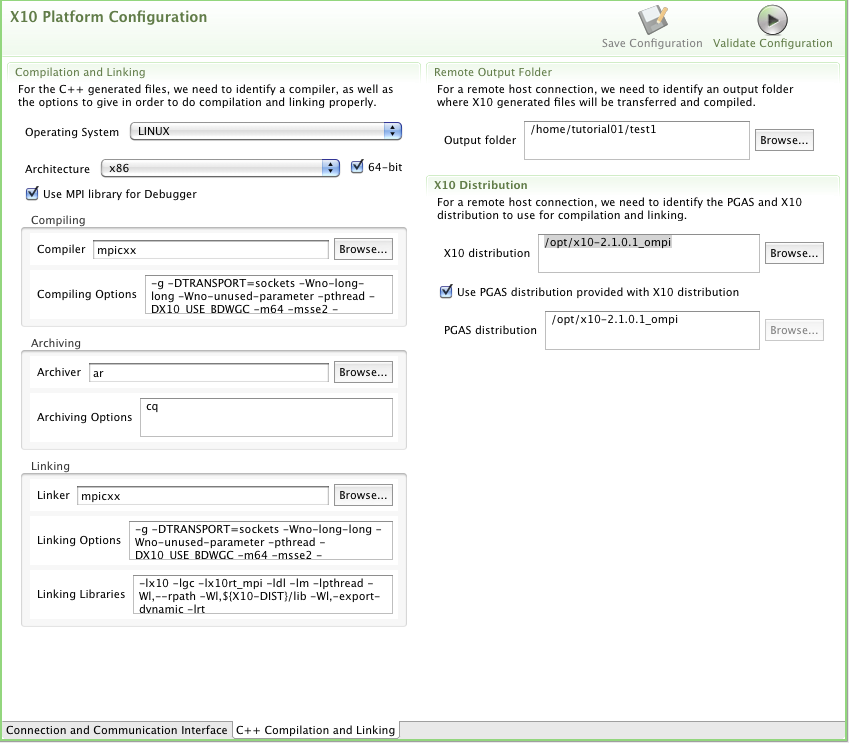
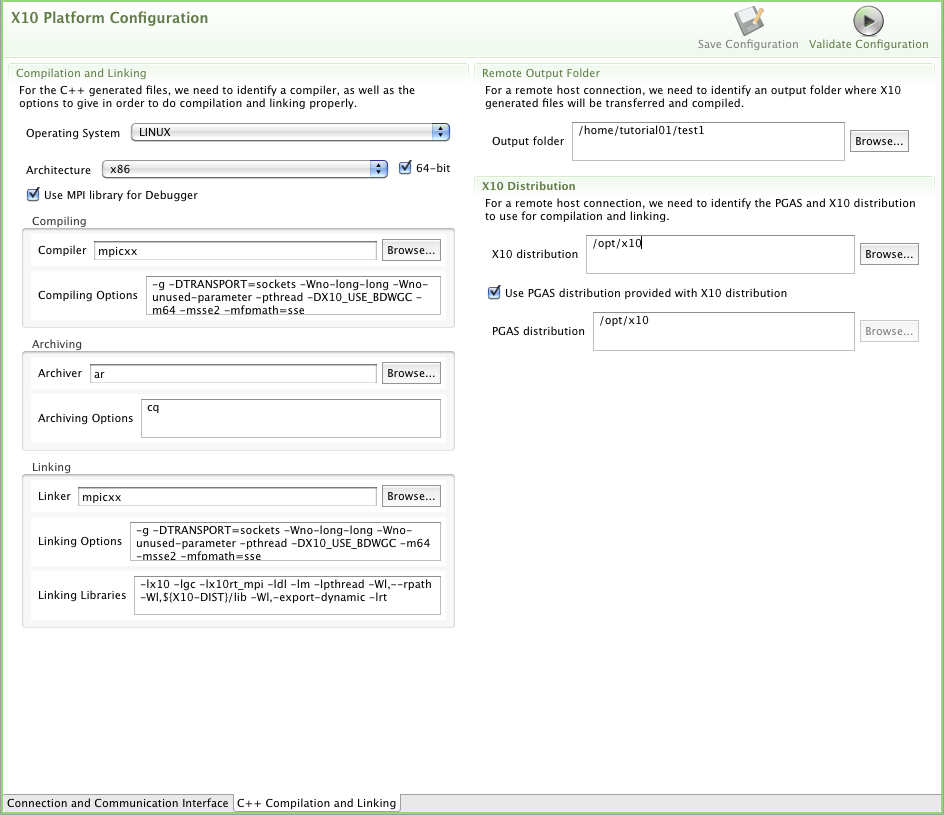
updated getting started
git-svn-id: svn://svn.code.sf.net/p/x10/code/x10dt/trunk@18274 a326200e-df2c-42e0-81fa-597e909af41d

Changed region(s): [[0.0, 0.0, 1.0, 1.0], [0.0, 0.0, 0.245, 0.031]]

diff --git a/x10dt.help.dt/html/gettingstarted/Steps1-8.html b/x10dt.help.dt/html/gettingstarted/Steps1-8.html
@@ -20,17 +20,20 @@ You will see a button (labeled <b>X10</b>) appear in the upper right corner of e
 back to the X10 perspective if you happen to move away from it.
 
 <ul>
-<li><a href="#import">Importing from a zip file</a></li>
-<li><a href="#create">Creating X10 Projects</a></li>
+<li><a href="#import">Importing X10 projects from a zip file</a></li>
+<li><a href="#create">Creating new X10 Projects</a></li>
 <li><a href="#editor">Using the Editor</a></li>
 <li><a href="#building">Building</a></li>
 <li><a href="#launching">Launching</a></li>
 <li><a href="#conversions">Conversions between C++ and Java back-ends</a></li>
 </ul>
 
+<br><br>
+<img src="images/X10DT.png" border="0" />
+<br><br>
 
 <br><hr>
-<h2 id="import"> Importing from a zip file </h2>
+<h2 id="import"> Importing X10 projects from a zip file </h2>
 
 Given a zip file that contains an existing X10 project, follow these steps to import it into X10DT.
 Go to 
@@ -41,11 +44,11 @@ select <b>"Select archive file"</b>, and enter the path for the zip file. Click 
 imported project.
 
 <br><hr>
-<h2 id="create"> Creating X10 Projects </h2>
+<h2 id="create"> Creating new X10 projects </h2>
 
 To create an X10 project with the Java backend, go to
 <br><br><b>File -> New -> X10 Project (Java back-end)</b><br><br>
-Enter the name of the project in the window that pops up. The <b>Project Layout</b> defaults to creating seperate folders for sources
+Enter the name of the project in the window that pops up. The <b>Project Layout</b> defaults to creating separate folders for sources
 and class files. Be sure to keep this default. In the <b>Sample Source</b> area, you have the choice of having the wizard create
 a sample "Hello World" program, or not. This program will help you to get started with X10. Click <b>Finish</b>.
 
@@ -61,7 +64,7 @@ To create a new X10 class, interface, or package, select a src folder and right 
 to create. In the popup window, simply type the name of the new entity and click <b>Finish</b>.
 
 <br><hr>
-<h2 id="editor"> Using the Editor </h2>
+<h2 id="editor"> Using the editor </h2>
 
 If you double click on an X10 file in the Package Explorer, it will open an editor for that file. The editor offers the following services:
 <ul>
@@ -70,7 +73,11 @@ If you double click on an X10 file in the Package Explorer, it will open an edit
 <li><b>Hover Help </b> 
 <br>
 If you move the mouse and hover over an entity in the editor, a small window will popup to show you information on that
-entity including its documentation, if any. This feature is especially useful for <b>val</b>s in X10, because it shows the inferred type.</li>
+entity including its documentation, if any. This feature is especially useful for <b>val</b>s in X10, because it shows the inferred type.
+<br><br>
+<img src="images/hoverHelp.png" border="0" />
+<br><br>
+</li>
 <br>
 <li><b>Hyperlinking </b> 
 <br>
@@ -80,18 +87,26 @@ will take you to the definition of that entity.</li>
 <li><b>Outline View </b> 
 <br>
 This is the right-most view in Eclipse under the X10 perspective. If you click on an entity in the Outline View, it will take you
-to that entity in the editor.</li>
+to that entity in the editor.
+<br><br>
+<img src="images/outlineView.png" border="0" />
+<br><br></li>
 <br>
 <li><b>Quick Outline </b> 
 <br>
 If you hit control (command on Mac) and the letter 'o', a popup window will show the outline of the current file. If you start typing the
-name of an entity, the window will only show entities whose names start with what you just typed.</li>
+name of an entity, the window will only show entities whose names start with what you just typed.
+<br><br>
+<img src="images/quickOutline.png" border="0" />
+<br><br></li>
 <br>
 <li><b>Folding </b> 
 <br>
-By clicking on the minus signs in the left margin of the editor, you may fold a region of text. To unfold, simply click on the corresponding plus signs.
-If Folding is not enabled in your workspace, right click in the margin and got to
-<br><br><b>Folding -> Enable</b></li>
+By clicking on the minus signs in the left margin of the editor, you may fold a region of text. 
+To unfold, simply click on the corresponding plus signs.
+<br><br>
+<img src="images/folding.png" border="0" />
+<br><br></li>
 <br>
 <li><b>Content Assist </b> 
 <br>
@@ -99,7 +114,11 @@ If you hit control + space, a window will appear with a selection of templates f
 proposed is context sensitive. When you choose a template, it will be inserted in your code. You will need to edit the missing parts to adapt the
 template to your code. If you hit control + space after a dot '.', it will give you all the members of the type of the receiver. 
 <b>Note that Content Assist currently only works when your file compiles successfully</b>. If there is any compilation error, which often happens
-as you are typing, then this feature will not work. This shortcoming will be fixed in a future release.</li>
+as you are typing, then this feature will not work. This shortcoming will be fixed in a future release.
+<br><br>
+<img src="images/contentAssist.png" border="0" />
+<br><br>
+</li>
 </ul>
 
 <b>When working with multiple editors, be sure to keep only a few open at any time (<10)</b>. This shortcoming is due to memory issues and will be
@@ -107,7 +126,7 @@ addressed in a future release.
 <br><br>
 If you have a file that is larger than 1K lines of code, the services of the editor might be slow. In that case, you may turn off most services
 by going to the <b>Preferences</b> page, select <b>X10</b>, and select <b>"Disable editor features (hyperlinking, hover help, etc.) for performance
-scalability"</b>. This will leave you with only syntax highlighting, outline view, and folding, but will make the editor be more responsive.
+scalability"</b>. This will leave you with only syntax highlighting, outline view, and folding, but will make the editor more responsive.
 
 <br><hr>
 <h2 id="building">Building</h2>
@@ -118,10 +137,10 @@ corner of Eclipse that shows the progress for the builder.
 To clean a project go to
 <br><br><b> Project -> Clean...</b><br><br>
 
-If there are any compilation errors, they will appear in the Problems View, located at the bottom in Eclipse. Cliking on a problem will take you to its location
+If there are any compilation errors, they will appear in the Problems View, located at the bottom in Eclipse. Clicking on a problem will take you to its location
 in an editor.
 
-Occasionally, the Problems View will indicate that an internal compiler error has occured. In that case, open the Error Log:
+If the Problems View indicates that an internal compiler error has occurred, then open the Error Log:
 
 <br><br><b>Window -> Show View -> Other... </b><br><br>
 
@@ -157,9 +176,19 @@ You are now ready to run your X10 program with the C++ back-end. Select the type
 You may also go to
 <br><br><b>Run -> Run Configurations...</b><br><br>
 
-to see all of the launch configurations that you have so far created, and modify them further. The launch configuration tabs allow you to
-enter program parameters.
+to see all of the run configurations that you have so far created, and modify them further. The run configuration tabs allow you to
+enter program parameters (For more information see <a href="Steps9-14.html">Remote Launching and Debugging Basics</a>).
 
+<br><hr>
+<h2 id="conversions">Conversions between C++ and Java back-ends</h2>
+
+To convert an X10 project from C++ back-end to Java back-end, select the project in the Package Explorer, right click, and select
+<br><br><b>Configure -> Convert to X10 Project with Java back-end</b><br><br>
+
+and similarly for converting from Java back-end to C++ back-end.
+
+<br><br>
+It is often convenient to start prototyping a program in the Java back-end, and then convert it to the C++ back-end.
 </body>
 </html>
 

diff --git a/x10dt.help.dt/html/gettingstarted/Steps9-14.html b/x10dt.help.dt/html/gettingstarted/Steps9-14.html
@@ -6,7 +6,7 @@
 
 <body>
 
-<h1>Remote Launching and Debugging Basics</h1>
+<h1>Remote Launching and Debugger Basics</h1>
 
 X10DT allows you to compile and run your programs on different machines with the C++ back-end.
 
@@ -40,7 +40,7 @@ Switch to the <b>C++ Compilation and Linking</b> tab. Specify the output folder 
 your output folder <b>using your own name</b>. This is to ensure that different participants in the tutorial won't share output directories accidentally.
 For example, if you chose <b>tutorial01</b> for your account, then your output folder would be: 
 <br><br><b>/home/tutorial01/JohnDoe</b><br><br>
-In the <b>X10 Distribution</b> field, enter: <b>/opt/x10-2.1.0.1_ompi</b>. This will be automatically carried to the PGAS distribution field.
+In the <b>X10 Distribution</b> field, enter: <b>/opt/x10</b>. This will be automatically carried to the PGAS distribution field.
 
 <br>
 Be sure that the checkbox <b>Use MPI Library for Debugger</b> under <b>Compilation and Linking</b> is checked.
@@ -56,7 +56,14 @@ above.
 <img src="images/platformConfig3.png" border="0" />
 <br><br>
 
-After your platform configuration is set, you need to run the program once. To do so, go to:
+After your platform configuration is set, you need to run the program once. To do so, 
+select the type with the main method, right click and select
+<br><br><b>Run As -> X10 Application (C++ back-end)</b><br><br>
+
+This will open the <b>Parallel Runtime</b> view, where you will see the output of your program when it's finished.
+
+<br><br>
+If this step does not work for you, then create a run configuration manually:
 <br><br><b>Run -> Run Configurations...</b><br><br>
 
 Double click on <b>X10 Application (C++ back-end)</b> to create a new Run Configuration. In the <b>Application</b> tab,
@@ -86,7 +93,7 @@ that will be fixed in a future release).
 
 
 When you are finished with the <b>Run Configurations</b> settings, and no tab shows any errors, hit <b>Apply</b> to save, and then hit <b>Run</b>.
-This will open the <b>Parallel Runtime</b> view, where you will see the output of your program when it's finished.
+
 
 <br><br>
 If this step fails for you, go to the <b>Resources Manager</b> pane in the <b>Parallel Runtime</b> perspective. Right click on the resource manager

diff --git a/x10dt.help.dt/html/gettingstarted/preface.html b/x10dt.help.dt/html/gettingstarted/preface.html
@@ -6,6 +6,15 @@
 
 <body>
 <h1>Getting X10 and X10DT on your machine</h1>
+<p>For Super Computing 2010 we have put together a special release of the X10DT
+that integrates an X10 debugger for use with the C++ backend along with some bug fixes 
+and enhancements. These materials are located at 
+<a href="http://x10.codehaus.org/Supercomputing+2010+Tutorial+Materials">
+http://x10.codehaus.org/Supercomputing+2010+Tutorial+Materials</a>. 
+These will be incorporated into the next release of the X10DT which you will be able
+to get from the X10 web site, <a href="http://x10.codehaus.org/">
+http://x10.codehaus.org/</a>. You can refer to the instructions below for setting
+up various development environments.
 <p>
 We've put together some installation guides for various platforms that show in
 detail how to set up your workstation to develop X10 programs. The

diff --git a/x10dt.help.dt/html/gettingstarted/main.html b/x10dt.help.dt/html/gettingstarted/main.html
@@ -9,9 +9,10 @@
 <h1>X10DT: Getting Started</h1>
 
 <ul>
-	<li><a href="preface.html">Getting X10 and X10DT on your machine</a></li>
+	
   	<li><a href="Steps1-8.html">Editor basics and launching</a></li>
-  	<li><a href="Steps9-14.html">Remote launching and debugging basics</a></li>
+  	<li><a href="Steps9-14.html">Remote launching and debugger basics</a></li>
+  	<li><a href="preface.html">Advanced installation notes for X10 and X10DT</a></li>
   </ul>
 
 
